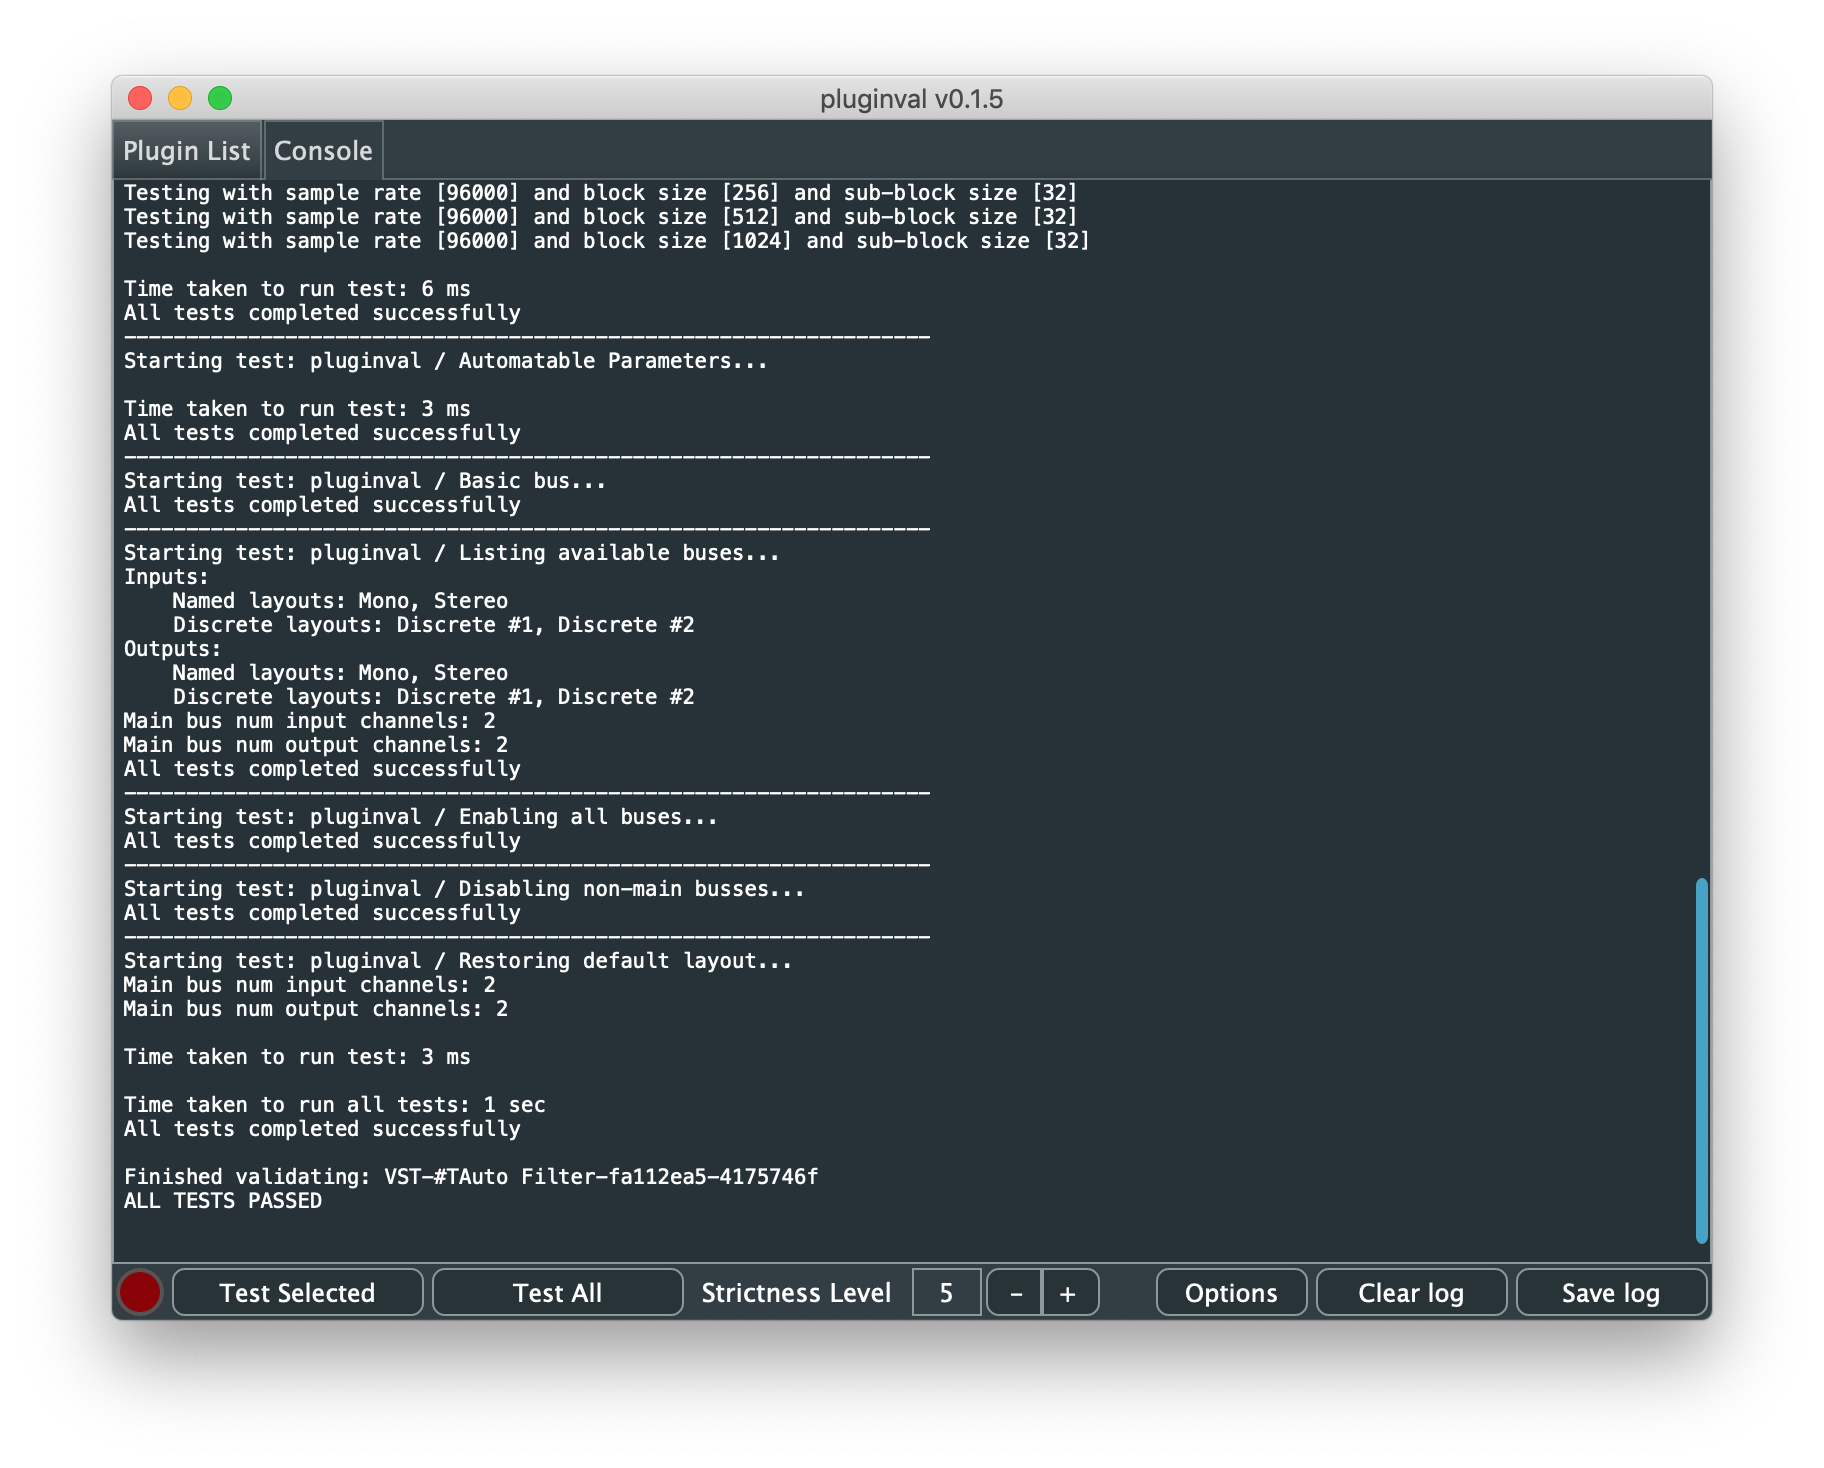
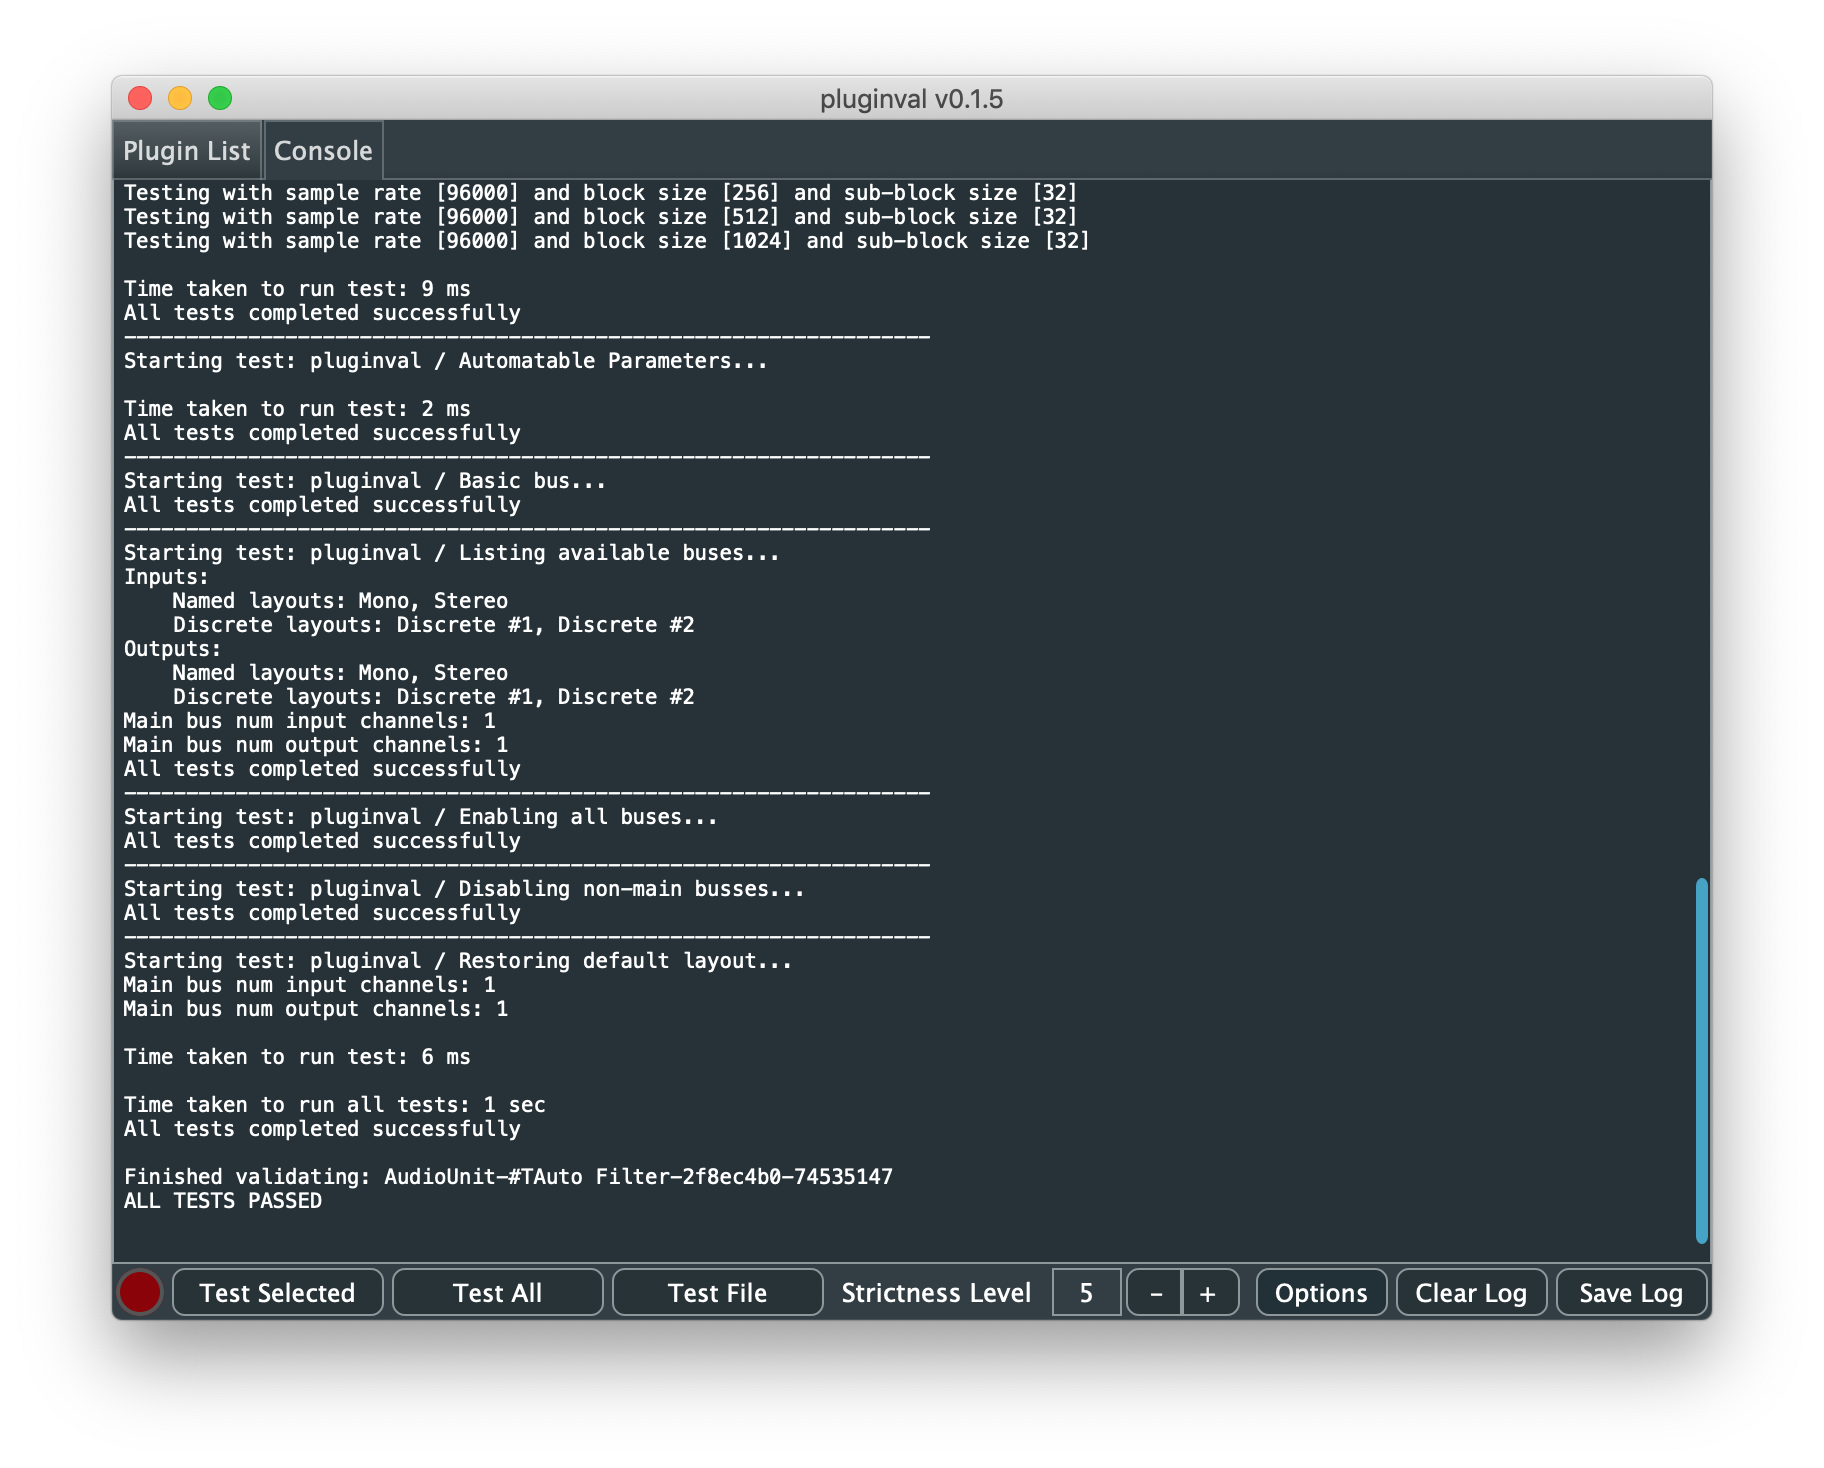
Added a "Test File" button to the UI for testing plugins that haven't been scanned

diff --git a/Source/MainComponent.cpp b/Source/MainComponent.cpp
@@ -205,6 +205,7 @@ MainComponent::MainComponent (Validator& v)
     addAndMakeVisible (optionsButton);
     addAndMakeVisible (testSelectedButton);
     addAndMakeVisible (testAllButton);
+    addAndMakeVisible (testFileButton);
     addAndMakeVisible (strictnessLabel);
     addAndMakeVisible (strictnessSlider);
 
@@ -231,6 +232,22 @@ MainComponent::MainComponent (Validator& v)
 
             validator.setValidateInProcess (getValidateInProcess());
             validator.validate (plugins, getTestOptions());
+        };
+
+    testFileButton.onClick = [this]
+        {
+            FileChooser fc (TRANS("Browse for Plug-in File"),
+                            getAppPreferences().getValue ("lastPluginLocation", File::getSpecialLocation (File::userApplicationDataDirectory).getFullPathName()),
+                            "*.vst;*.vst3;*.dll;*.component");
+
+            if (fc.browseForFileToOpen())
+            {
+                const auto path = fc.getResult().getFullPathName();
+                getAppPreferences().setValue ("lastPluginLocation", path);
+
+                validator.setValidateInProcess (getValidateInProcess());
+                validator.validate (path, getTestOptions());
+            }
         };
 
     clearButton.onClick = [this]
@@ -357,13 +374,14 @@ void MainComponent::resized()
     auto r = getLocalBounds();
 
     auto bottomR = r.removeFromBottom (28);
-    saveButton.setBounds (bottomR.removeFromRight (100).reduced (2));
-    clearButton.setBounds (bottomR.removeFromRight (100).reduced (2));
-    optionsButton.setBounds (bottomR.removeFromRight (80).reduced (2));
+    saveButton.setBounds (bottomR.removeFromRight (80).reduced (2));
+    clearButton.setBounds (bottomR.removeFromRight (80).reduced (2));
+    optionsButton.setBounds (bottomR.removeFromRight (70).reduced (2));
 
     connectionStatus.setBounds (bottomR.removeFromLeft (bottomR.getHeight()).reduced (2));
-    testSelectedButton.setBounds (bottomR.removeFromLeft (130).reduced (2));
-    testAllButton.setBounds (bottomR.removeFromLeft (130).reduced (2));
+    testSelectedButton.setBounds (bottomR.removeFromLeft (110).reduced (2));
+    testAllButton.setBounds (bottomR.removeFromLeft (110).reduced (2));
+    testFileButton.setBounds (bottomR.removeFromLeft (110).reduced (2));
 
     strictnessLabel.setBounds (bottomR.removeFromLeft (110).reduced (2));
     strictnessSlider.setBounds (bottomR.removeFromLeft (100).reduced (2));

diff --git a/Source/MainComponent.h b/Source/MainComponent.h
@@ -240,8 +240,8 @@ private:
                                               getAppPreferences().getFile().getSiblingFile ("PluginsListDeadMansPedal"),
                                               &getAppPreferences() };
     ConsoleComponent console { validator };
-    TextButton testSelectedButton { "Test Selected" }, testAllButton { "Test All" },
-               clearButton { "Clear log" }, saveButton { "Save log" }, optionsButton { "Options" };
+    TextButton testSelectedButton { "Test Selected" }, testAllButton { "Test All" }, testFileButton { "Test File" },
+               clearButton { "Clear Log" }, saveButton { "Save Log" }, optionsButton { "Options" };
     Slider strictnessSlider;
     Label strictnessLabel { {}, "Strictness Level" };
     ConnectionStatus connectionStatus { validator };

diff --git a/CHANGELIST.md b/CHANGELIST.md
@@ -8,6 +8,7 @@
   - Added a test for processing audio whilst showing the editor
   - Added an option to automatically save log files with a sensible name (see the "--output-dir" option)
   - Disabled the LargerThanPreparedBlockSizeTest for AU, VST & VST3 formats
+  - Added a "Test File" button to the UI for validating plugins that won't scan (this improves the stack trace information in the log file)
 
 ### 0.1.5
   - Fixed a problem catching allocations in clang release builds
